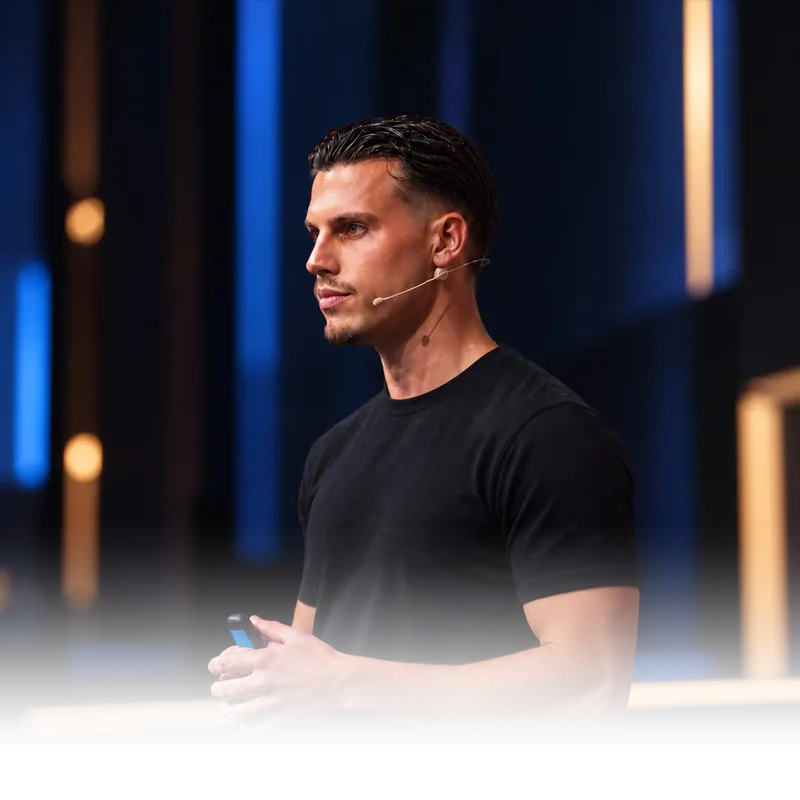
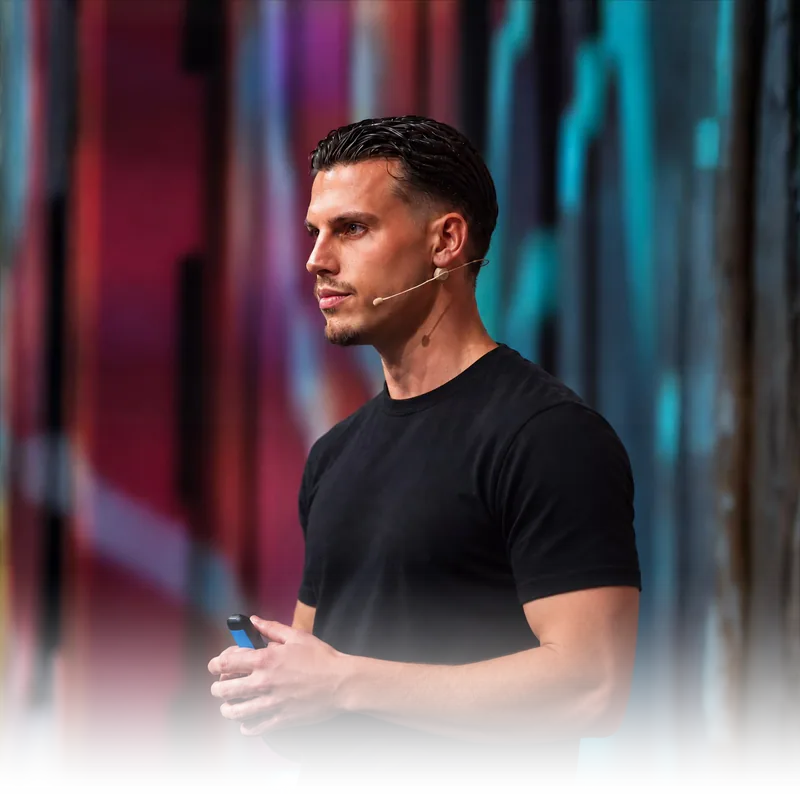
Original stage photo back with natural hands; Speed2Lead accents in gold

diff --git a/styles.css b/styles.css
@@ -57,10 +57,11 @@
 }
 
 /* ---------- Markenwechsel: Farben ----------
-   Eine Seite, zwei Marken: VDSolutions (Blau, Standard) und Speed2Lead
-   (Orange). Die Marke steht als data-brand am <html>. Jede Farbe, die sich
-   beim Wechsel ändert, ist hier registriert — nur so laufen auch Verläufe
-   und Schatten fließend von Blau nach Orange, statt umzuspringen. Ohne
+   Eine Seite, zwei Marken: VDSolutions (Kobaltblau, Standard) und Speed2Lead
+   (Smaragdgrün, seit 27.10.2026; vorher Orange). Die Marke steht als
+   data-brand am <html>. Jede Farbe, die sich beim Wechsel ändert, ist hier
+   registriert — nur so laufen auch Verläufe und Schatten fließend von Blau
+   nach Grün, statt umzuspringen. Ohne
    @property-Unterstützung wechseln die Farben sofort, alles andere bleibt
    gleich. Die VDSolutions-Werte sind exakt die bisherigen Farben. */
 @property --cta-base { syntax: "<color>"; inherits: true; initial-value: #0050f6; }
@@ -117,30 +118,31 @@
   transition-timing-function: var(--brand-ease);
 }
 
-/* Speed2Lead: Orange #FF6A24, Anthrazit #141414, Off-White #F7F7F5. Der
-   Button bekommt dieselben drei Lichtebenen wie der blaue, nur warm. */
+/* Speed2Lead: Smaragdgrün #12A06A (hell #1FC184, dunkel #0E8A5B),
+   Anthrazit #141414 (seit 27.10.2026, vorher Orange #FF6A24). Der Button
+   bekommt dieselben drei Lichtebenen wie der blaue, nur grün. */
 :root[data-brand="speed2lead"] {
-  --cta-base: #ff6a24;
-  --cta-edge: #f25812;
-  /* Mitte im reinen Markenorange statt heller: darauf liest sich die weiße
-     Schrift besser */
-  --cta-mid: #ff6a24;
-  --cta-glow: rgb(255 238 226 / 0.95);
-  --cta-glow-2: rgb(255 188 148 / 0.5);
-  --cta-glow-3: rgb(255 150 96 / 0);
-  --cta-ring: rgb(255 150 100 / 0.5);
-  --cta-drop: rgb(255 106 36 / 0.42);
-  --badge-drop: rgb(130 46 0 / 0.3);
-  --badge-drop-2: rgb(130 46 0 / 0.24);
-  --badge-tint: rgb(220 90 20 / 0.07);
-  --badge-edge: rgb(150 55 0 / 0.12);
-  --badge-inner: rgb(150 55 0 / 0.08);
-  /* Nachname auf Anthrazit: dieselben hellen Orangetöne wie „bleiben.“ im
-     dunklen Blatt */
-  --name-1: #ff6a24;
-  --name-2: #ff8a4c;
-  --name-3: #ffa36f;
-  --name-4: #ff7433;
+  --cta-base: #12a06a;
+  /* Rand eine Spur dunkler: die dunkle Schrift bleibt dort über 4,5 : 1 */
+  --cta-edge: #0f9461;
+  --cta-mid: #12a06a;
+  --cta-glow: rgb(234 248 241 / 0.95);
+  --cta-glow-2: rgb(150 225 192 / 0.5);
+  --cta-glow-3: rgb(31 193 132 / 0);
+  --cta-ring: rgb(31 193 132 / 0.5);
+  --cta-drop: rgb(18 160 106 / 0.42);
+  --badge-drop: rgb(5 60 38 / 0.3);
+  --badge-drop-2: rgb(5 60 38 / 0.24);
+  --badge-tint: rgb(18 160 106 / 0.07);
+  --badge-edge: rgb(6 70 45 / 0.12);
+  --badge-inner: rgb(6 70 45 / 0.08);
+  /* Akzente in Champagner-Gold (seit 26.10.2026), abgestimmt auf das
+     goldene „sprechen.“; Grün bleibt den Aktionen (Button, Play, Logo) */
+  --name-1: #e0b65a;
+  --name-2: #f1d48e;
+  --name-3: #f6dd9a;
+  --name-4: #dcb463;
+  --accent-glow: #c99a3e;
 }
 
 * {
@@ -752,7 +754,7 @@ html {
    von unten, Lichtpunkt oben in der Mitte, zu den Seiten dunkleres Blau,
    darüber Kontur, Schatten und eine Lichtkante. Wiederverwendbar als <a>. */
 .cta {
-  /* Farben aus dem Abschnitt „Markenwechsel“: Blau bei VDSolutions, Orange
+  /* Farben aus dem Abschnitt „Markenwechsel“: Blau bei VDSolutions, Grün
      bei Speed2Lead, dazwischen fließend */
   --cta-blue: var(--cta-base);
   --cta-surface:
@@ -1290,16 +1292,16 @@ body:has(.about-dialog[open]) {
    folgenden (--dot-next). Der Strich blendet zwischen beiden über, dadurch
    wirkt die Kette trotz einzeln gefärbter Abschnitte wie ein Verlauf. */
 /* Farbreihe von hell (Anfang) nach satt (heute) in der Markenfarbe:
-   Kobalt bei VDSolutions, Orange bei Speed2Lead */
+   Kobalt bei VDSolutions, Gold bei Speed2Lead (wie der Name) */
 .timeline {
   --tl-1: #d8e7fc; --tl-2: #b7d2f8; --tl-3: #8fb8f3; --tl-4: #5f98ea;
   --tl-5: #357be3; --tl-6: #1565e0; --tl-7: #0048a4;
   --tl-halo: rgb(53 123 227 / 0.16);
 }
 :root[data-brand="speed2lead"] .timeline {
-  --tl-1: #ffdcc8; --tl-2: #ffc09c; --tl-3: #ffa16e; --tl-4: #ff8243;
-  --tl-5: #f76a24; --tl-6: #df5512; --tl-7: #c2410c;
-  --tl-halo: rgb(255 106 36 / 0.18);
+  --tl-1: #fbf0d4; --tl-2: #f6dd9a; --tl-3: #ecc97a; --tl-4: #e0b65a;
+  --tl-5: #c99a3e; --tl-6: #a97c2a; --tl-7: #85601c;
+  --tl-halo: rgb(224 182 90 / 0.16);
 }
 .timeline__step:nth-child(1) { --dot: var(--tl-1); --dot-next: var(--tl-2); --enter: 0.16s; }
 .timeline__step:nth-child(2) { --dot: var(--tl-2); --dot-next: var(--tl-3); --enter: 0.28s; }
@@ -2196,8 +2198,8 @@ body:has(.about-dialog[open]) {
 
 /* ---------- Markenwechsler ----------
    Klein und ruhig über den Buttons, rechtsbündig: ein Hinweis auf die
-   zweite Marke, kein dritter Button. Schon bei VDSolutions in zartem
-   Orange, weil er dorthin führt. Beide Beschriftungen liegen im selben
+   zweite Marke, kein dritter Button. Schon bei VDSolutions mit dem
+   grünen Speed2Lead-Zeichen, weil er dorthin führt. Beide Beschriftungen liegen im selben
    Rasterfeld — die Pille behält beim Wechsel ihre Breite. */
 .brand-switch-row {
   display: flex;
@@ -2309,23 +2311,25 @@ body:has(.about-dialog[open]) {
   gap: inherit;
   padding: inherit;
 }
-/* Speed2Lead-Termin: weiße Schrift wie beim blauen Button, mit einem warmen
-   Schatten statt des blauen, damit sie sich vom Orange abhebt */
+/* Speed2Lead-Termin: Schrift und Pfeil in Anthrazit, weil Weiß auf dem
+   Grün #12A06A nur 3,4 : 1 erreicht (Anthrazit 5,5 : 1, WCAG AA); dazu ein
+   heller statt eines dunklen Schattens (seit 27.10.2026) */
 .cta .btn-content--speed2lead {
-  text-shadow: 0 1px 2px rgb(120 40 0 / 0.35);
+  color: #141414;
+  text-shadow: 0 1px 0 rgb(255 255 255 / 0.22);
 }
 :root[data-brand="speed2lead"] .cta {
-  --cta-focus: #ff8a50;
+  --cta-focus: #1fc184;
 }
 @media (hover: hover) {
   :root[data-brand="speed2lead"] .btn-secondary[href]:hover {
     box-shadow:
-      0 0 0 1px rgb(255 106 36 / 0.45),
+      0 0 0 1px rgb(18 160 106 / 0.45),
       0 12px 26px -16px rgb(0 0 0 / 0.6);
   }
 }
 :root[data-brand="speed2lead"] .btn-secondary:focus-visible {
-  outline-color: #ff8a50;
+  outline-color: #1fc184;
 }
 /* Zeichen links: Das Speed2Lead-Bild liegt oben und blendet über das
    VDSolutions-Bild, das erst danach verschwindet — die Scheibe wird dabei
@@ -2342,10 +2346,10 @@ body:has(.about-dialog[open]) {
    VDSolutions bleibt weiß; Speed2Lead steht ganz in Anthrazit #141414 —
    dasselbe wie das dunkle Blatt, Seite und Blatt gehen nahtlos ineinander
    über. Schrift weiß und in den Grautönen aus der Speed2Lead-Palette
-   (#AFAFAF), der Zweitbutton als dunkle Fläche #242424, damit der orange
+   (#AFAFAF), der Zweitbutton als dunkle Fläche #242424, damit der grüne
    Termin-Button allein vorn bleibt. Die Farben laufen im Takt des Wechsels. */
 :root[data-brand="speed2lead"] {
-  --focus-ring: #ff8a50;
+  --focus-ring: #1fc184;
 }
 /* Dunkle Kopfleiste (Vorgabe vom 25.10.2026): ganz oben deckend #1C1D21,
    eine Spur heller als der Grund #141414, damit sie nicht mit dem Foto
@@ -2388,8 +2392,8 @@ body:has(.about-dialog[open]) {
   --header-line-2: rgb(133 178 246 / 0.5);
 }
 :root[data-brand="speed2lead"] {
-  --header-line-1: rgb(255 106 36 / 0.36);
-  --header-line-2: rgb(255 160 110 / 0.5);
+  --header-line-1: rgb(224 182 90 / 0.36);
+  --header-line-2: rgb(246 221 154 / 0.5);
 }
 /* Ohne Weichzeichner (ältere Browser) oder wenn das System weniger
    Transparenz wünscht: fast deckend, damit Logo und Icons lesbar bleiben */
@@ -2451,16 +2455,16 @@ body:has(.about-dialog[open]) {
 
 /* ---------- Speed2Lead: dunkles Blatt ----------
    Wie bei VDSolutions bleibt das Kundenstimmen-Blatt dunkel; Akzente in
-   Orange, „sprechen.“ und die Haarlinie im hellen Hochglanzgold. */
+   Grün, „sprechen.“ und die Haarlinie im hellen Hochglanzgold. */
 :root[data-brand="speed2lead"] .voices {
-  --v-glow: rgb(255 106 36 / 0.14);
-  --v-accent: #ff7b38;
-  --v-play: rgb(255 106 36 / 0.94);
-  --v-play-shadow: rgb(150 50 0 / 0.6);
-  --v-focus: #ff8a50;
+  --v-glow: rgb(224 182 90 / 0.12);
+  --v-accent: #e0b65a;
+  --v-play: rgb(18 160 106 / 0.94);
+  --v-play-shadow: rgb(5 60 38 / 0.6);
+  --v-focus: #1fc184;
 }
 :root[data-brand="speed2lead"] .voices .cta {
-  --cta-focus: #ff8a50;
+  --cta-focus: #1fc184;
 }
 /* Referenzen von Speed2Lead: per Filter weiß auf dem dunklen Blatt.
    Acht statt zwölf Logos — kürzere Spur, deshalb kürzere Dauer bei gleichem
@@ -2558,7 +2562,7 @@ body:has(.about-dialog[open]) {
    Grundfarbe #357BE3, Schein von unten rgba(225,236,255,.28) →
    rgba(136,183,250,.16), Lichtpunkt oben 26 %, Kontur rgba(155,197,255,.55),
    Schatten rgba(53,123,227,.28), Lichtkante 28 %, Glanzstreifen 24 %.
-   Calendly-Knopf mit Kobalt-Schatten. Speed2Lead bleibt Orange. */
+   Calendly-Knopf mit Kobalt-Schatten. Speed2Lead hat eigene Werte (Grün). */
 :root[data-brand="vdsolutions"] {
   --cta-base: #357be3;
   --cta-edge: #1565e0;

diff --git a/app.js b/app.js
@@ -338,12 +338,12 @@ const BRAND_MORPH = { duration: 480, easing: "cubic-bezier(0.32, 0.72, 0, 1)" };
 // größtenteils ausgeblendet ist — sonst schnitte sie eine noch sichtbare
 // Zeile mittendurch (z. B. die zweite Zeile der Botschaft bei 320 px)
 const BRAND_COLLAPSE = { ...BRAND_MORPH, delay: 140, fill: "backwards" };
-// Blau und Orange treffen sich auf halbem Weg in einem dunklen Mauve, einer
-// dritten Farbe, die keiner der beiden Marken gehört. Termin-Buttons, Name
-// und Play-Knöpfe verlieren genau dann kurz ihre Sättigung und werden eine
-// Spur heller: Das Blau löst sich ins Neutrale auf, aus dem das Orange
-// kommt. Der Tiefpunkt (80 ms) liegt dort, wo die Farbe gerade die Mitte
-// durchläuft.
+// Blau und Grün treffen sich auf halbem Weg in einem dunklen Blaugrün, einer
+// Farbe, die keiner der beiden Marken gehört. Termin-Buttons, Name und
+// Play-Knöpfe verlieren genau dann kurz ihre Sättigung und werden eine Spur
+// heller: Das Blau löst sich ins Neutrale auf, aus dem das Grün kommt. Der
+// Tiefpunkt (80 ms) liegt dort, wo die Farbe gerade die Mitte durchläuft.
+// (Seit 27.10.2026 Grün statt Orange; Ablauf und Dauer unverändert.)
 const BRAND_DIP = {
   keyframes: [
     { filter: "saturate(1) brightness(1)" },

diff --git a/index.html b/index.html
@@ -73,7 +73,7 @@
     <div class="site-header__logo">
       <img src="assets/marken/vdsolutions/logo.webp" alt="VDSolutions" width="750" height="96"
            data-brand-only="vdsolutions" />
-      <img src="assets/marken/speed2lead/logo.webp" alt="Speed2Lead" width="612" height="96"
+      <img src="assets/marken/speed2lead/logo.webp" alt="Speed2Lead" width="606" height="96"
            data-brand-only="speed2lead" />
     </div>
     <nav class="socials" aria-label="Social Media">

diff --git a/CREDITS.md b/CREDITS.md
@@ -64,15 +64,15 @@ Schild „Platzhalter“, bis echte Videos da sind.
 ## Eigene Inhalte
 
 - `assets/fotos/niclas-buehne-800.webp`, `assets/fotos/niclas-buehne-1200.webp`
-  — Bühnenfoto oben auf der Seite (seit 25.10.2026 mit blauem Bühnenlicht),
-  unten ausgeblendet (`quellen/skripte/buehnenfoto_erzeugen.js`);
-  `assets/fotos/niclas-profil.jpg` — das frühere Bühnenfoto quadratisch als
-  Profilbild für Suchmaschinen. Originale: `quellen/fotos/`. Die Rechte liegen vor, eine Urhebernennung ist nicht
+  — Bühnenfoto oben auf der Seite, unten ausgeblendet
+  (`quellen/skripte/buehnenfoto_erzeugen.js`); `assets/fotos/niclas-profil.jpg`
+  — dasselbe Foto quadratisch als Profilbild für Suchmaschinen. Original:
+  `quellen/fotos/`. Die Rechte liegen vor, eine Urhebernennung ist nicht
   erforderlich (bestätigt am 19.10.2026).
 - `assets/marken/vdsolutions/` — Logo im Header (eigenes Logo, Akzente
   in Kobalt umgefärbt), das VDS-Zeichen und das Calendly-Zeichen in Kobalt.
-  `assets/marken/speed2lead/` — Logo (weiß/orange), das eigene
-  Speed2Lead-Bildzeichen und das Calendly-Zeichen in Orange. Alle vom Inhaber
+  `assets/marken/speed2lead/` — Logo (weiß/grün), das eigene
+  Speed2Lead-Bildzeichen und das Calendly-Zeichen in Grün. Alle vom Inhaber
   geliefert, Originale in `quellen/marken/`. Das Calendly-Logo ist eine Marke
   der Calendly LLC und steht nur als Hinweis auf die Terminbuchung dort.
 - Favicon und App-Icons (`favicon.svg`, `favicon.ico`, `apple-touch-icon.png`,

diff --git a/README.md b/README.md
@@ -1,7 +1,7 @@
 # niclasvanderstraeten.com
 
 Linkseite von Niclas van der Straeten mit zwei Marken: **VDSolutions**
-(Standard, Kobalt) und **Speed2Lead** (Orange, `?brand=speed2lead`).
+(Standard, Kobalt #0050F6) und **Speed2Lead** (Smaragdgrün #12A06A, `?brand=speed2lead`).
 Reines HTML/CSS/JS ohne Build. Jeder Push auf `main` geht über Vercel live.
 
 ## Ordnerstruktur
